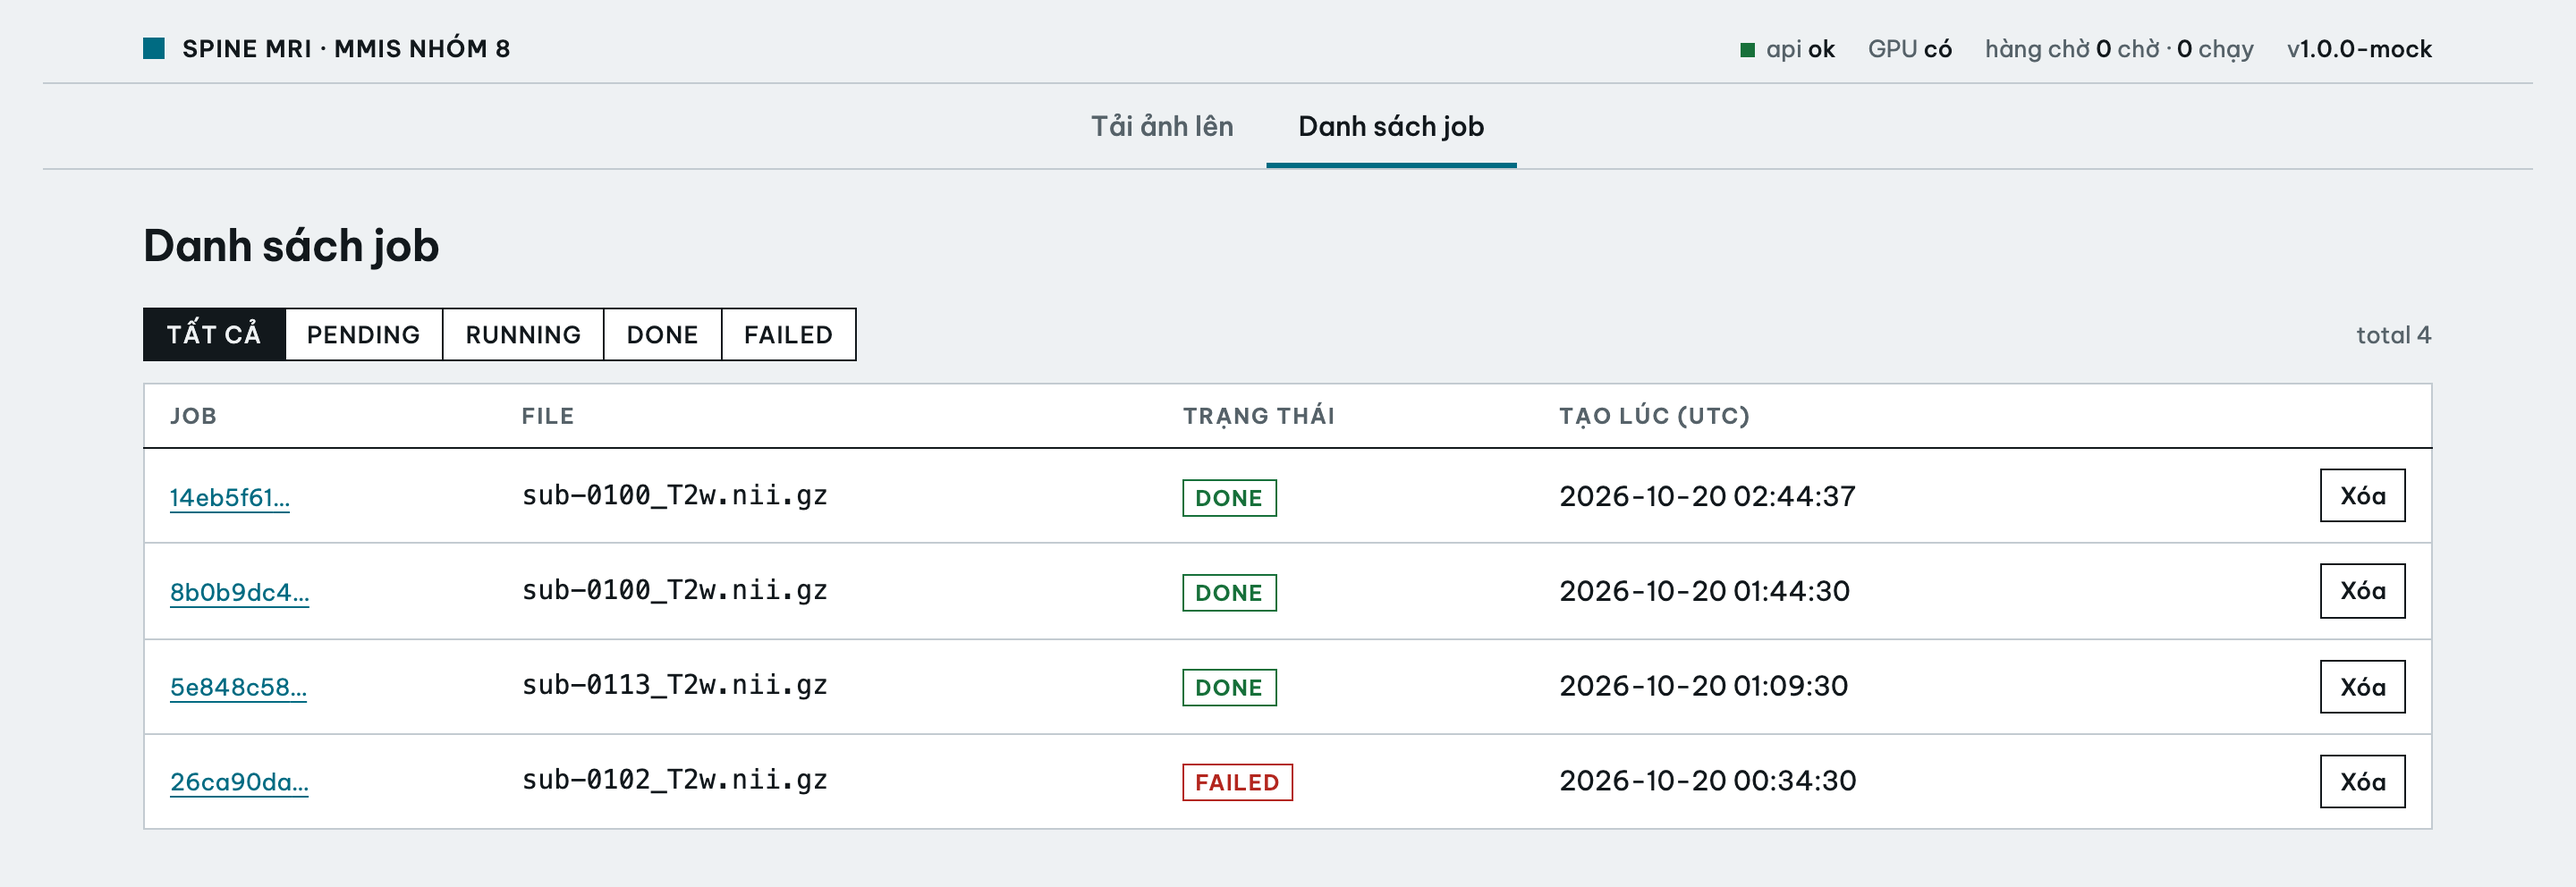
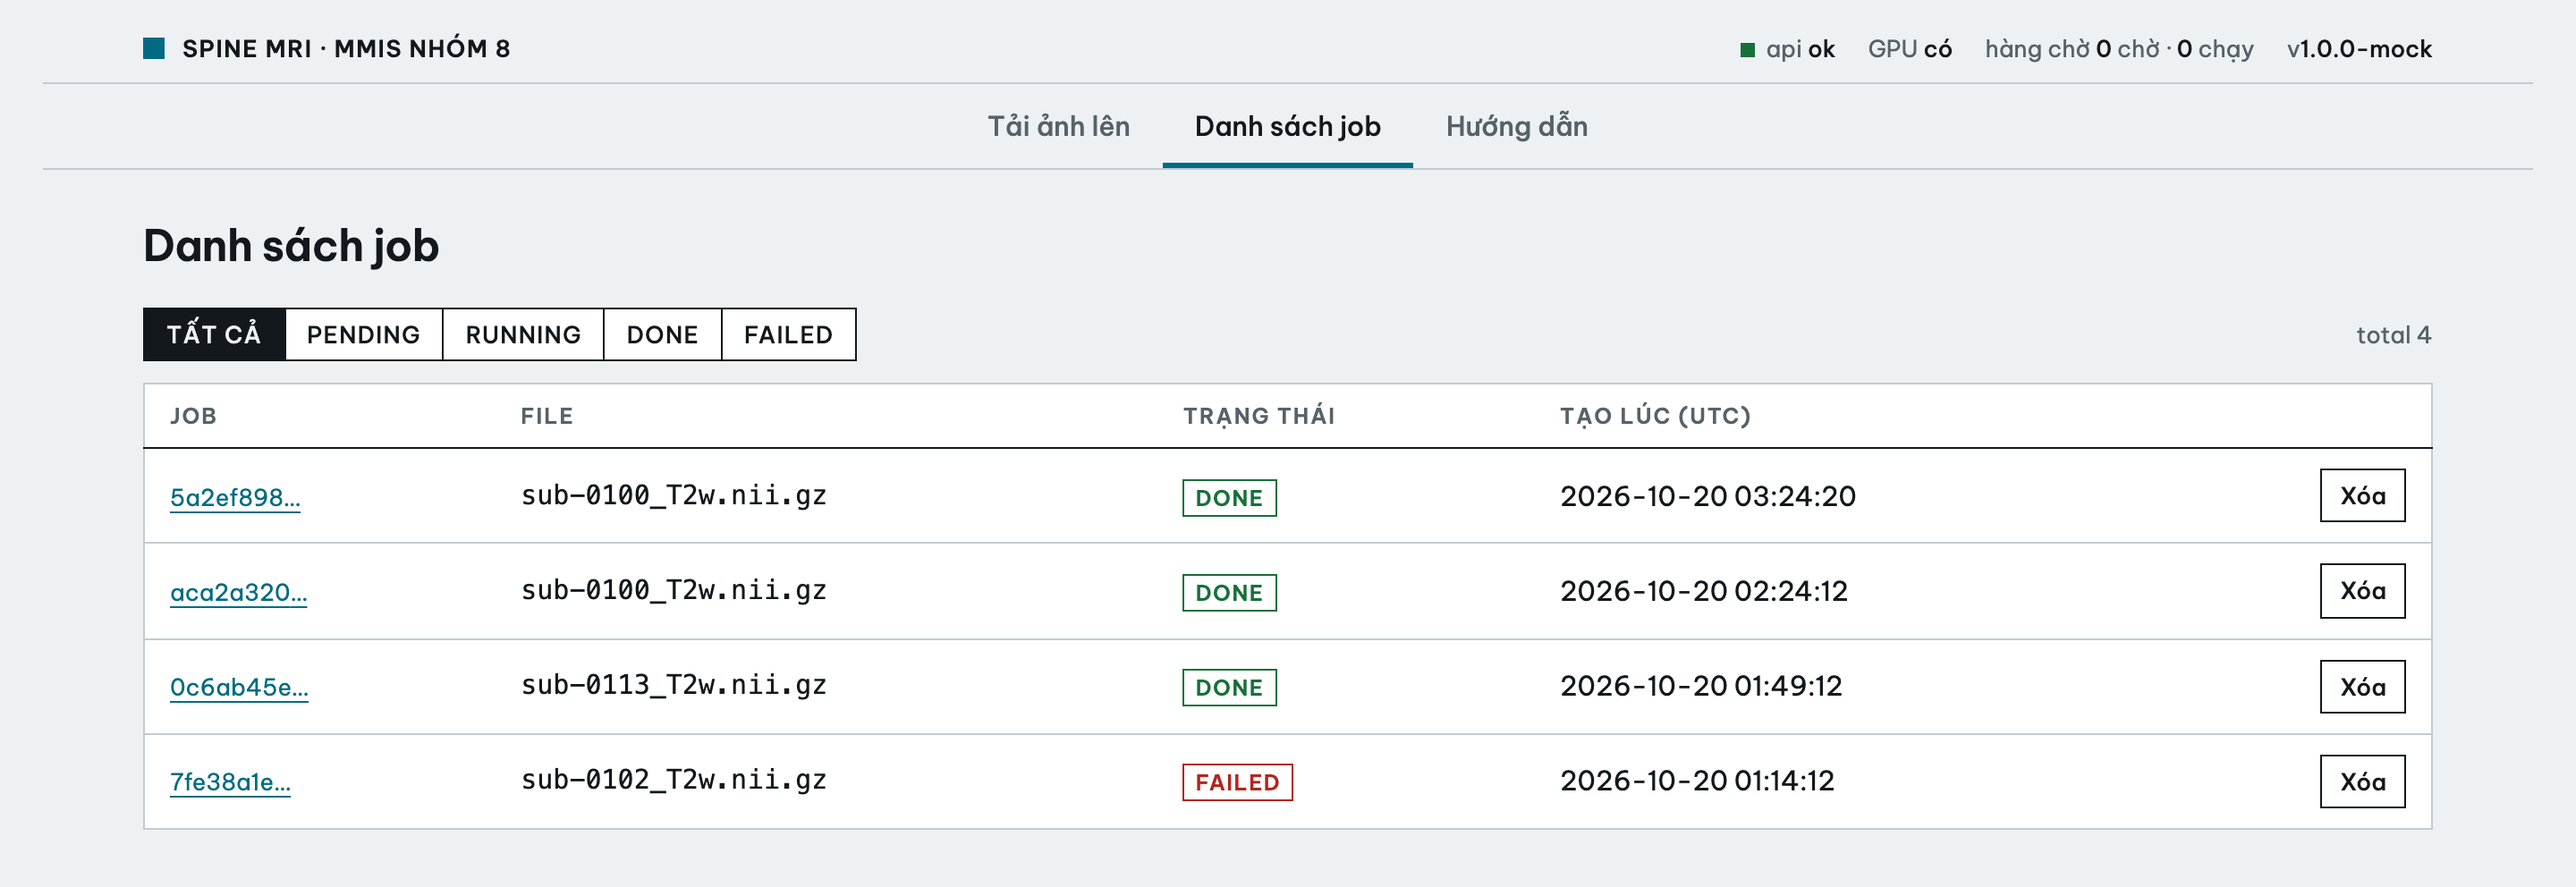
feat(fe): thêm trang Hướng dẫn trong web
- Route /huong-dan đọc trực tiếp fe/docs/huong-dan-su-dung.md và ảnh trong fe/docs/images
- Thêm mục Hướng dẫn trên thanh menu
- Chụp lại ảnh hướng dẫn với menu mới

diff --git a/fe/src/styles.css b/fe/src/styles.css
@@ -285,3 +285,15 @@ section > h1 + .grid-upload { margin-top: 0; }
 form.grid-upload { display: grid; gap: 0; }
 .vtabs { flex-wrap: wrap; row-gap: 6px; }
 .vtabs button { white-space: nowrap; }
+.guide { max-width: 880px; margin: 0 auto; line-height: 1.65; }
+.guide h1 { margin-bottom: 12px; }
+.guide h2 { font: 600 20px/1.3 var(--font-body); letter-spacing: 0; text-transform: none; color: var(--ink); margin: 40px 0 12px; padding-top: 16px; border-top: 1px solid var(--line); }
+.guide h3 { font: 600 16px/1.3 var(--font-body); margin: 28px 0 8px; }
+.guide p, .guide li { max-width: 72ch; }
+.guide ul, .guide ol { padding-left: 22px; }
+.guide li + li { margin-top: 4px; }
+.guide img { display: block; max-width: 100%; height: auto; border: 1px solid var(--line); background: var(--surface); margin: 12px 0 24px; }
+.guide table { border-collapse: collapse; width: 100%; background: var(--surface); margin: 12px 0 24px; font-size: 14px; }
+.guide th, .guide td { border: 1px solid var(--line); padding: 8px 12px; text-align: left; vertical-align: top; }
+.guide th { font-weight: 600; background: var(--surface-2); }
+.guide code { background: var(--surface-2); padding: 1px 4px; }

diff --git a/fe/src/App.tsx b/fe/src/App.tsx
@@ -1,8 +1,11 @@
+import { Suspense, lazy } from 'react'
 import { Route, Routes } from 'react-router-dom'
 import Layout from './components/Layout'
 import JobListPage from './pages/JobListPage'
 import JobPage from './pages/JobPage'
 import UploadPage from './pages/UploadPage'
+
+const GuidePage = lazy(() => import('./pages/GuidePage'))
 
 export default function App() {
   return (
@@ -11,6 +14,14 @@ export default function App() {
         <Route index element={<UploadPage />} />
         <Route path="jobs" element={<JobListPage />} />
         <Route path="jobs/:jobId" element={<JobPage />} />
+        <Route
+          path="huong-dan"
+          element={
+            <Suspense fallback={<p className="muted">Đang tải…</p>}>
+              <GuidePage />
+            </Suspense>
+          }
+        />
         <Route path="*" element={<UploadPage />} />
       </Route>
     </Routes>

diff --git a/fe/src/pages/GuidePage.tsx b/fe/src/pages/GuidePage.tsx
@@ -1,0 +1,17 @@
+import { marked } from 'marked'
+import source from '../../docs/huong-dan-su-dung.md?raw'
+
+const images = import.meta.glob('../../docs/images/*.png', { eager: true, query: '?url', import: 'default' }) as Record<
+  string,
+  string
+>
+const urlByName = Object.fromEntries(Object.entries(images).map(([path, url]) => [path.split('/').pop()!, url]))
+
+const html = (marked.parse(source, { async: false }) as string).replace(
+  /<img src="images\/([^"]+)"/g,
+  (_, name: string) => `<img loading="lazy" src="${urlByName[name] ?? ''}"`,
+)
+
+export default function GuidePage() {
+  return <article className="guide" dangerouslySetInnerHTML={{ __html: html }} />
+}

diff --git a/fe/src/components/Layout.tsx b/fe/src/components/Layout.tsx
@@ -46,6 +46,7 @@ export default function Layout() {
           <NavLink to="/jobs" end>
             Danh sách job
           </NavLink>
+          <NavLink to="/huong-dan">Hướng dẫn</NavLink>
         </div>
       </nav>
       <main>
